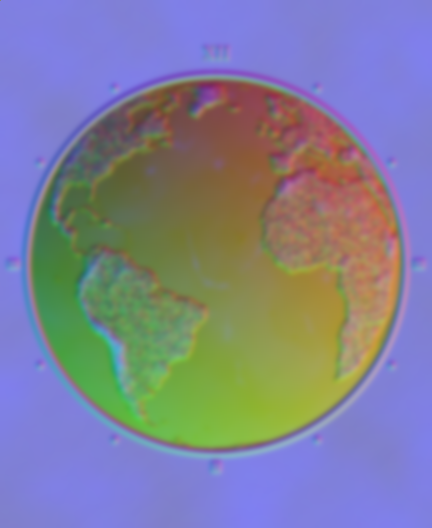
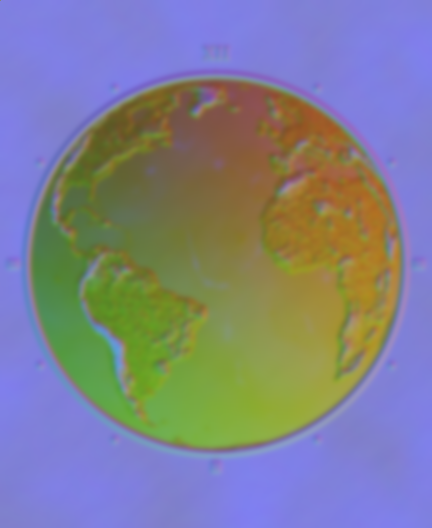
World face: calmer, sculpted relief [skip ci]
Real terrain carries the relief (sharper ridges, stronger), grain and nugget texture turned well down,
softer coastal step and soft-capped slopes so nothing turns black.

Claude-Session: https://claude.ai/code/session_01CfMfrQKX5i7H9ozqx2Wsxs

diff --git a/tools/textures/gen_world_dial.py b/tools/textures/gen_world_dial.py
@@ -167,9 +167,10 @@ def main(geojson, out_dir):
     # over gentle real terrain, with a short rounded shoulder at the coast. No smooth waves: those read as chrome.
     shoulder = np.clip(d_in / (1.6 * SS), 0, 1)
     shoulder = np.sqrt(shoulder)
-    terrain = ndimage.gaussian_filter(np.clip((earth - 0.25) / 0.75, 0, 1), 1.5 * SS)
+    terrain = ndimage.gaussian_filter(np.clip((earth - 0.25) / 0.75, 0, 1), 0.8 * SS)
+    terrain = np.clip(terrain + 1.2 * (terrain - ndimage.gaussian_filter(terrain, 3 * SS)), 0, 1)   # crisper ridges
     nuggets = ridged(shape, 70, 3, 12)                              # clusters ~3 px across
-    gold_h = (0.30 * shoulder + 0.55 * terrain * shoulder + 0.22 * nuggets * shoulder) * land
+    gold_h = (0.12 * shoulder + 0.80 * terrain * shoulder + 0.10 * nuggets * shoulder) * land
 
     # --- globe rim (half-round raised gold bezel) and applied markers
     r_px = rho * R
@@ -203,11 +204,14 @@ def main(geojson, out_dir):
     # --- height field of the metal (gold relief or base), plus the globe dome
     Rs = R * 1.9                                            # shallow spherical dome
     dome = np.sqrt(np.clip(Rs ** 2 - np.minimum(r_px, R) ** 2, 0, None)) - np.sqrt(Rs ** 2 - R ** 2)
-    relief_scale = 7.0 * SS
+    relief_scale = 13.0 * SS
     metal_h = dome + relief_scale * np.where(gold_mask > 0.5, height_metal, base)
 
     gy, gx = np.gradient(ndimage.gaussian_filter(metal_h, 0.6))
-    n_metal = np.stack([-gx, -gy, np.ones_like(gx)], -1)
+    # Rounded, not cliff-like: cap the slope softly so no facet turns fully toward the dark floor.
+    slope = np.sqrt(gx * gx + gy * gy) + 1e-9
+    cap = 0.55 * np.tanh(slope / 0.55) / slope
+    n_metal = np.stack([-gx * cap, -gy * cap, np.ones_like(gx)], -1)
 
     n_metal /= np.linalg.norm(n_metal, axis=-1, keepdims=True)
 
@@ -244,8 +248,8 @@ def main(geojson, out_dir):
     # room — the fine sparkle of frosted gold. (The depth-of-field copy blurs it away toward the rim, as in a macro shot.)
     gold_final = down(gold_mask * globe + mk + (rim_t > 0)).clip(0, 1)[..., None]
     grain_xy = np.random.default_rng(71).normal(0, 1.0, (H, W, 2))
-    grain_xy = np.stack([ndimage.gaussian_filter(grain_xy[..., i], 0.9) for i in range(2)], -1)
-    grain_xy *= 0.16 / grain_xy.std()                                   # clustered crystals, gentle tilt
+    grain_xy = np.stack([ndimage.gaussian_filter(grain_xy[..., i], 0.7) for i in range(2)], -1)
+    grain_xy *= 0.08 / grain_xy.std()                                   # fine crystals: a sparkle, not a texture
     nm[..., 0:2] += grain_xy * (gold_final > 0.5) * down(np.clip(land * globe, 0, 1))[..., None]
     nm /= np.linalg.norm(nm, axis=-1, keepdims=True)
     metal = np.stack([enc(nm[..., 0]), enc(nm[..., 1]), down(b_chan)], -1)
